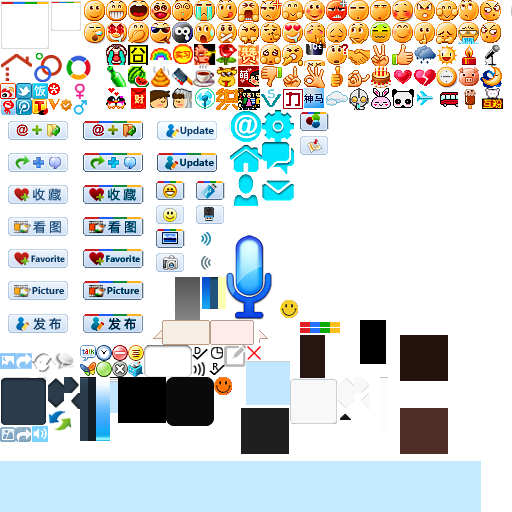
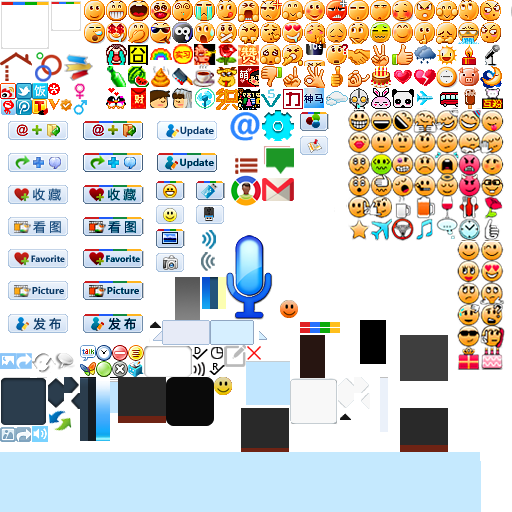
G+修改配色

diff --git a/branches/BBM_Skin/client/src/com/yuchting/yuchberry/client/im/ChatField.java b/branches/BBM_Skin/client/src/com/yuchting/yuchberry/client/im/ChatField.java
@@ -54,14 +54,14 @@ public class ChatField extends Manager{
 	public final static int	fsm_border		= 6;
 	
 	public final static int	fsm_minTextWidth		= fsm_offsetWidth + fsm_bubblePointWidth;
-	public final static int	fsm_maxTextWidth 		= recvMain.fsm_display_width - fsm_offsetWidth - fsm_border * 2 - fsm_bubblePointWidth - 12;//修正时间出界//
+	public final static int	fsm_maxTextWidth 		= recvMain.fsm_display_width - fsm_offsetWidth - fsm_border * 2 - fsm_bubblePointWidth - 10;//修正时间出界//
 
 	
-	public final static int	fsm_ownChatTextBGColor		= 0xffecea; 
-	public final static int	fsm_otherChatTextBGColor	= 0xf7eee5; 
+	public final static int	fsm_ownChatTextBGColor		= 0xd6efff; 
+	public final static int	fsm_otherChatTextBGColor	= 0xe7ebf7; 
 	
-	public final static int	fsm_ownChatTextFGColor		= 0x572500; 
-	public final static int	fsm_otherChatTextFGColor	= 0x543f29; 
+	public final static int	fsm_ownChatTextFGColor		= 0; 
+	public final static int	fsm_otherChatTextFGColor	= 0; 
 
 	public final static int	fsm_timeTextBGColor			= 0xffffff; 
 //	public final static int	fsm_timeTextBorderColor		= 0xc0c0c0;  					//
@@ -144,6 +144,7 @@ public class ChatField extends Manager{
 				null,
 				recvMain.sm_weiboUIImage.getImageUnit("own_point"),
 				null,
+
 			},
 			recvMain.sm_weiboUIImage);
 	
@@ -202,7 +203,7 @@ public class ChatField extends Manager{
 		
 		if(_msg.getMsg().length() != 0){
 			t_converText = WeiboTextField.getConvertString(_msg.getMsg(),WeiboTextField.CONVERT_DISABLE_AT_SIGN,null);
-			m_msgTextWidth = MainIMScreen.fsm_defaultFont.getAdvance(t_converText)  ; 
+			m_msgTextWidth = MainIMScreen.fsm_defaultFont.getAdvance(t_converText) ;
 			
 			if(m_msgTextWidth < fsm_minTextWidth){
 				m_msgTextWidth = fsm_minTextWidth;
@@ -319,9 +320,9 @@ public class ChatField extends Manager{
 		int t_x = 0;
 		
 		if(m_msg.isOwnMsg()){
-			t_x = recvMain.fsm_display_width - m_msgTextWidth - fsm_border - fsm_bubblePointWidth;
+			t_x = recvMain.fsm_display_width - m_msgTextWidth - fsm_border * 2 - fsm_bubblePointWidth ;
 		}else{
-			t_x = fsm_border + fsm_bubblePointWidth;
+			t_x = fsm_border * 2 + fsm_bubblePointWidth ;
 		}
 		
 		if(m_textfield != null){
@@ -343,7 +344,7 @@ public class ChatField extends Manager{
 	
 	protected void subpaint(Graphics _g){
 
-		int t_bubbleWidth = m_msgTextWidth + fsm_border * 2 + 4; //Bubble加宽//
+		int t_bubbleWidth = m_msgTextWidth + (fsm_border + 2 ) * 2 ; //Bubble加宽
 		
 		int t_x = 0;
 		
@@ -358,7 +359,7 @@ public class ChatField extends Manager{
 			sm_ownChatBubble.draw(_g, t_x, 0, t_bubbleWidth, getPreferredHeight(), 
 					BubbleImage.RIGHT_POINT_STYLE);
 			
-			t_time_x = t_x - t_time_width ;
+			t_time_x = t_x - t_time_width  ;
 			
 		}else{
 			

diff --git a/branches/BBM_Skin/client/src/com/yuchting/yuchberry/client/im/RosterItemField.java b/branches/BBM_Skin/client/src/com/yuchting/yuchberry/client/im/RosterItemField.java
@@ -46,7 +46,7 @@ public class RosterItemField extends Field{
 	public final static int		fsm_headImageWidth 			= recvMain.fsm_display_width>320 ? fetchWeibo.fsm_headImageSize_l:fetchWeibo.fsm_headImageSize;
 	
 	public final static int		fsm_nameTextColor			= 0x502e28; //别名字体颜色
-	public final static int		fsm_statusTextColor			= 0x9d706b; //聊天状态字体颜色
+	public final static int		fsm_statusTextColor			= 0x949595; //聊天状态字体颜色
 	
 	public final static Font		fsm_addressFont			= MainIMScreen.fsm_defaultFont.derive(MainIMScreen.fsm_defaultFont.getStyle(),MainIMScreen.fsm_defaultFontHeight - 2);
 	public final static int		fsm_addressFontHeight	= fsm_addressFont.getHeight();
@@ -109,7 +109,7 @@ public class RosterItemField extends Field{
 		if(_on){
 			// draw selected backgroud
 			//
-			WeiboHeadImage.drawSelectedImage(_g, getPreferredWidth(), getPreferredHeight(),false);
+			WeiboHeadImage.drawSelectedImage(_g, getPreferredWidth(), getPreferredHeight(),true);//切换选择的背景图，False时为ext_full_image中的图片
 		}
 		// draw roster state
 		//

diff --git a/branches/BBM_Skin/client/src/com/yuchting/yuchberry/client/im/MainChatScreen.java b/branches/BBM_Skin/client/src/com/yuchting/yuchberry/client/im/MainChatScreen.java
@@ -198,7 +198,7 @@ final class InputManager extends Manager implements FieldChangeListener{
 		if(_preferredHeight > sm_background.getHeight()){
 			int t_color = _g.getColor();
 			try{
-				_g.setColor(0x24130d); //输入超过两行后用此色补充
+				_g.setColor(0x3e3e3e); //输入超过两行后用此色补充
 				_g.fillRect(0, sm_background.getHeight(), 
 						_preferredWidth, _preferredHeight - sm_background.getHeight());
 			}finally{
@@ -676,7 +676,7 @@ final class MiddleMgr extends VerticalFieldManager{
 
 public class MainChatScreen extends MainScreen implements ChatField.IChatFieldOpen{
 	
-	public final static int fsm_background = 0xd8d8d8; //聊天对话背景色
+	public final static int fsm_background = 0xd8d8d8; //聊天对话背景色d8d8d8
 	
 	int m_menu_op = 0;
 	MenuItem m_sendMenu = new MenuItem(recvMain.sm_local.getString(yblocalResource.WEIBO_SEND_LABEL),m_menu_op++,0){
